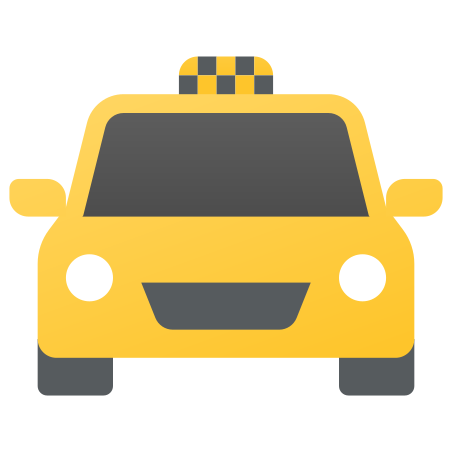
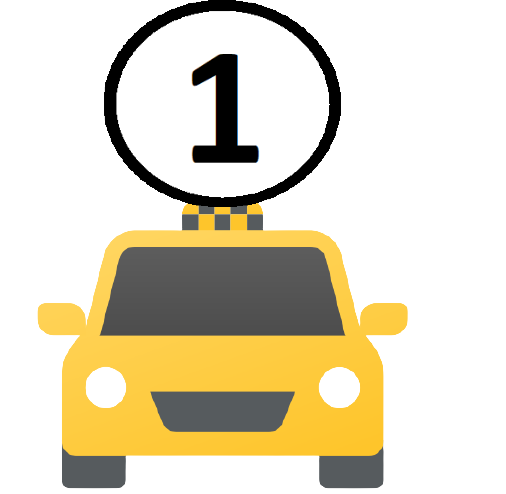
Segundo Taxi

diff --git a/public/js/mapData.js b/public/js/mapData.js
@@ -1,50 +1,90 @@
-const latitud = document.getElementById('latitud'); 
-const longitud = document.getElementById('longitud'); 
-const timestamp = document.getElementById('timestamp');
+const latitud1 = document.getElementById('latitud1'); 
+const longitud1 = document.getElementById('longitud1'); 
+const timestamp1 = document.getElementById('timestamp1');
+const latitud2 = document.getElementById('latitud2'); 
+const longitud2 = document.getElementById('longitud2'); 
+const timestamp2 = document.getElementById('timestamp2');
 const URLActual = window.location;
-const link = URLActual + '/api' 
-let latlon = Array(0);
-//Inicializar Polilinea
-var polyline = L.polyline([["0", "0"]], {color: "black"}).addTo(mymap);
+const link1 = URLActual + '/api/1'; 
+const link2 = URLActual + '/api/2'; 
+let latlon1 = Array(0);
+let latlon2 = Array(0);
+//Inicializar Polilinea 1
+var polyline1 = L.polyline([["0", "0"]], {color: "black"}).addTo(mymap);
+//Inicializar Polilinea 2
+var polyline2 = L.polyline([["0", "0"]], {color: "black"}).addTo(mymap);
 //Crear icono con Taxi
-const realtimeIcon = new L.Icon({
+const realtimeIcon1 = new L.Icon({
     iconUrl: "/images/taxi.png",
-    iconSize: [30, 30]
+    iconSize: [50, 50]
+});
+const realtimeIcon2 = new L.Icon({
+    iconUrl: "/images/taxi2.png",
+    iconSize: [50, 50]
 });
 //Inicializar Marcador
 const marker1 = L.marker([0, 0], {
     title: "Coordenadas",
     draggable:false,
-    icon: realtimeIcon
+    icon: realtimeIcon1
+    }).addTo(mymap);
+const marker2 = L.marker([0, 0], {
+    title: "Coordenadas",
+    draggable:false,
+    icon: realtimeIcon2
     }).addTo(mymap);
 
 async function Taxi() {
-//Fetch para obtener el ultimo dato de la base de datos
-var response = await fetch(link);
-if (response.status == 200) {
-    let json1 = await response.json(); 
-    data = json1[0];
-    let lattxt = data['latitud'];
-    let lontxt = data['longitud'];
-    let date = data['timestamps'].split('T');
-    let hora = date[1].toString();
-    hora = hora.substring(0, hora.length - 2);
-    let timetxt = date[0] + ' ' + hora ;
-    //LLenar el array latlon con los datos entrantes
-    latlon.push([lattxt, lontxt]);
-    // Generar polilinea apartir del array latlon
-    polyline.setLatLngs([latlon]);
-    latitud.innerHTML=lattxt;
-    longitud.innerHTML=lontxt;
-    timestamp.innerHTML=timetxt;
-    mymap.setView([lattxt, lontxt]);//Se centra el mapa en la ultima coordenada obtenida
-    marker1.setLatLng([lattxt, lontxt]).bindPopup(`<b>Lat:</b> ${lattxt} <br> <b>Lon:</b> ${lontxt}`,
-        {
-        closeOnClick: true,
-        autoClose: false,
-        autoPan: false
-        }
-    );//Se coloca el marcador en la ultima coordenada obtenida
-}    
+    //Fetch para obtener el ultimo dato de la base de datos
+    var response1 = await fetch(link1);
+    if (response1.status == 200) {
+        let json1 = await response1.json(); 
+        data1 = json1[0];
+        let lattxt1 = data1['latitud'];
+        let lontxt1 = data1['longitud'];
+        let date1 = data1['timestamps'].split('T');
+        let hora1 = date1[1].toString();
+        hora1 = hora1.substring(0, hora1.length - 2);
+        let timetxt1 = date1[0] + ' ' + hora1 ;
+        //LLenar el array latlon con los datos entrantes
+        latlon1.push([lattxt1, lontxt1]);
+        // Generar polilinea apartir del array latlon
+        polyline1.setLatLngs([latlon1]);
+        latitud1.innerHTML=lattxt1;
+        longitud1.innerHTML=lontxt1;
+        timestamp1.innerHTML=timetxt1;
+        marker1.setLatLng([lattxt1, lontxt1]).bindPopup(`<b>Lat:</b> ${lattxt1} <br> <b>Lon:</b> ${lontxt1}`,
+            {
+            closeOnClick: true,
+            autoClose: false,
+            autoPan: false
+            }
+        );//Se coloca el marcador en la ultima coordenada obtenida
+    }
+    var response2 = await fetch(link2);
+    if (response2.status == 200) {
+        let json2 = await response2.json(); 
+        data2 = json2[0];
+        let lattxt2 = data2['latitud'];
+        let lontxt2 = data2['longitud'];
+        let date2 = data2['timestamps'].split('T');
+        let hora2 = date2[1].toString();
+        hora2 = hora2.substring(0, hora2.length - 2);
+        let timetxt2 = date2[0] + ' ' + hora2 ;
+        //LLenar el array latlon con los datos entrantes
+        latlon2.push([lattxt2, lontxt2]);
+        // Generar polilinea apartir del array latlon
+        polyline2.setLatLngs([latlon2]);
+        latitud2.innerHTML=lattxt2;
+        longitud2.innerHTML=lontxt2;
+        timestamp2.innerHTML=timetxt2;
+        marker2.setLatLng([lattxt2, lontxt2]).bindPopup(`<b>Lat:</b> ${lattxt2} <br> <b>Lon:</b> ${lontxt2}`,
+            {
+            closeOnClick: true,
+            autoClose: false,
+            autoPan: false
+            }
+        );//Se coloca el marcador en la ultima coordenada obtenida
+    }    
 }setInterval("Taxi()", 5000);
 Taxi()

diff --git a/public/js/record.js b/public/js/record.js
@@ -17,26 +17,36 @@ for (j = 1; j < latlon.length; j++) {
     //Modificar fechas para quitar T y .000Z
     resultdb[j][2] = resultdb[j][2].split("T").join(" ").split(".000Z").join("");
     //Generar marcadores cada 3 datos
-    if (j % 3 == 0) {
-        L.marker(latlon[j], {icon: recordIcon}).addTo(mymap).bindPopup("<b>Fecha y Hora:</b> "+resultdb[j][2]);
+    if (j % 3 == 0 && j != latlon.length) {
+        //Crear nombre de marcadores
+        markers = 'marker' + j;
+        markers = L.marker(latlon[j], {icon: recordIcon}).addTo(mymap).bindPopup("<b>Fecha y Hora:</b> "+resultdb[j][2]);
+        markers.on('mouseover', function (e) {
+            this.openPopup();
+        });
+        markers.on('mouseout', function (e) {
+            this.closePopup();
+        });
     }       
 };
-//Se obtiene la fecha inicial
-initialdate = resultdb[0][2].split("T").join(" ").split(".000Z").join("");
-//Se coloca el marcador en el inicio de la ruta
-L.marker(latlon[0], {icon: startendIcon}).addTo(mymap).bindPopup("<b>Inicio:</b> " + initialdate, {
+if (resultdb != ''){
+    //Se obtiene la fecha inicial
+    initialdate = resultdb[0][2].split("T").join(" ").split(".000Z").join("");
+    //Se coloca el marcador en el inicio de la ruta
+    L.marker(latlon[0], {icon: startendIcon}).addTo(mymap).bindPopup("<b>Inicio:</b> " + initialdate, {
+            closeOnClick: true,
+            autoClose: false,
+            autoPan: false
+        }).openPopup(latlon[0]);
+    //Se obtiene la fecha final
+    finaldate = resultdb[resultdb.length-1][2];
+    //Se coloca el marcador en el final de la ruta
+    L.marker(latlon[latlon.length-1], {icon: startendIcon}).addTo(mymap).bindPopup("<b>Final:</b> " + finaldate, {
         closeOnClick: true,
         autoClose: false,
         autoPan: false
-    }).openPopup(latlon[0]);
-//Se obtiene la fecha final
-finaldate = resultdb[resultdb.length-1][2];
-//Se coloca el marcador en el inicio de la ruta
-L.marker(latlon[latlon.length-1], {icon: startendIcon}).addTo(mymap).bindPopup("<b>Final:</b> " + finaldate, {
-    closeOnClick: true,
-    autoClose: false,
-    autoPan: false
-});
-//Se genera la polilinea
-let polyline = L.polyline([latlon], {color: "black"}).addTo(mymap);
-mymap.setView(latlon[0],14);
+    });
+    //Se genera la polilinea
+    L.polyline([latlon], {color: "black"}).addTo(mymap);
+    mymap.setView(latlon[0],14);
+}

diff --git a/router/RutasWeb.js b/router/RutasWeb.js
@@ -15,9 +15,16 @@ router.get('/monitorear/consultas', (req, res) => {
     res.render("consultas", {latlon:'', error:''})
 })
 router.use(cors());
-router.get("/monitorear/tiemporeal/api", (req, res) => {
+router.get("/monitorear/tiemporeal/api/:id", (req, res) => {
+    //Se define a cual tabla realizar la consulta
+    let id = req.params.id;
+    if(id == 1){
+      table = 'dataTaxi'
+    }else if(id == 2){
+      table = 'dataTaxi2'
+    }
     //Obtener el ultimo dato de la base de datos
-    conexion.query(`SELECT * FROM dataTaxi ORDER BY id DESC LIMIT 1`, (err, result) => {
+    conexion.query(`SELECT * FROM ${table} ORDER BY id DESC LIMIT 1`, (err, result) => {
         if (!err) {
           var resultado = result;
           res.send(resultado)
@@ -27,9 +34,10 @@ router.get("/monitorear/tiemporeal/api", (req, res) => {
     })
 })
 router.post('/monitorear/consultas', (req, res) => {
-    let idate =req.body.idate;
-    let fdate =req.body.fdate;
-    if (idate == '' || fdate == ''){
+    let idate = req.body.idate;
+    let fdate = req.body.fdate;
+    let id = req.body.taxid;
+    if (idate == '' || fdate == '' || id == ''){
       error = 'Todos los campos son requeridos para realizar la consulta.';
       res.render("consultas", {error:error, latlon:''});
     }else{
@@ -37,11 +45,17 @@ router.post('/monitorear/consultas', (req, res) => {
       let date2 = fdate.split('T');
       let hora1 = date1[1].toString();
       let hora2 = date2[1].toString();
-      
       let time1 = date1[0] + ' ' + hora1 ;
       let time2 = date2[0] + ' ' + hora2 ;
-    
-      conexion.query(`SELECT * FROM dataTaxi WHERE (timestamps BETWEEN '${time1}' AND '${time2}')`, (err, result) => {
+      let tabledb = '';
+      //Se hace la consulta teniendo en cuenta ID
+      if (id == 1){
+        tabledb = 'dataTaxi';
+      }else if (id == 2){
+        tabledb = 'dataTaxi2';
+      }
+
+      conexion.query(`SELECT * FROM ${tabledb} WHERE (timestamps BETWEEN '${time1}' AND '${time2}')`, (err, result) => {
         if (!err) {
           let info = result;
           let latlon = Array(0);

diff --git a/udp.js b/udp.js
@@ -1,3 +1,4 @@
+const { table } = require('console');
 const dgram = require('dgram');
 const socket = dgram.createSocket('udp4');
 const fs = require('fs');
@@ -11,7 +12,15 @@ socket.on('message', (msg, rinfo) => {
     let lat = data[0];
     let lon = data[1];
     let tim = data[2];
-    conexion.query(`INSERT INTO dataTaxi(latitud,longitud,timestamps) VALUES ('${lat}','${lon}',STR_TO_DATE('${tim}','%d/%m/%Y %H:%i:%s'));`, (err) => {
+    let id = data[3];
+    console.log(id);
+    let tabledb = '';
+    if (id == 1){
+      tabledb = 'dataTaxi';
+    } else if (id == 2){
+      tabledb = 'dataTaxi2';
+    }
+    conexion.query(`INSERT INTO ${tabledb}(latitud,longitud,timestamps) VALUES ('${lat}','${lon}',STR_TO_DATE('${tim}','%d/%m/%Y %H:%i:%s'));`, (err) => {
         if (!err) {
           console.log('Base de datos modificada exitosamente')
         } else {

diff --git a/public/css/style.css b/public/css/style.css
@@ -15,11 +15,11 @@ body {
 .bg-yellow {
     background-color: #F4FF63;
 }
-.full {
-    height:300px;
+.bg-graylight {
+    background-color: #f1f1f1;
 }
-.cont1 {
-    flex-wrap: wrap;
+.full {
+    height:400px;
 }
 .btnred {
     border-radius: 50%;
@@ -28,7 +28,6 @@ body {
     width: 95%;
     height: 85%;
 }
-
 .footer {
     position: absolute;
     bottom: 100%;
